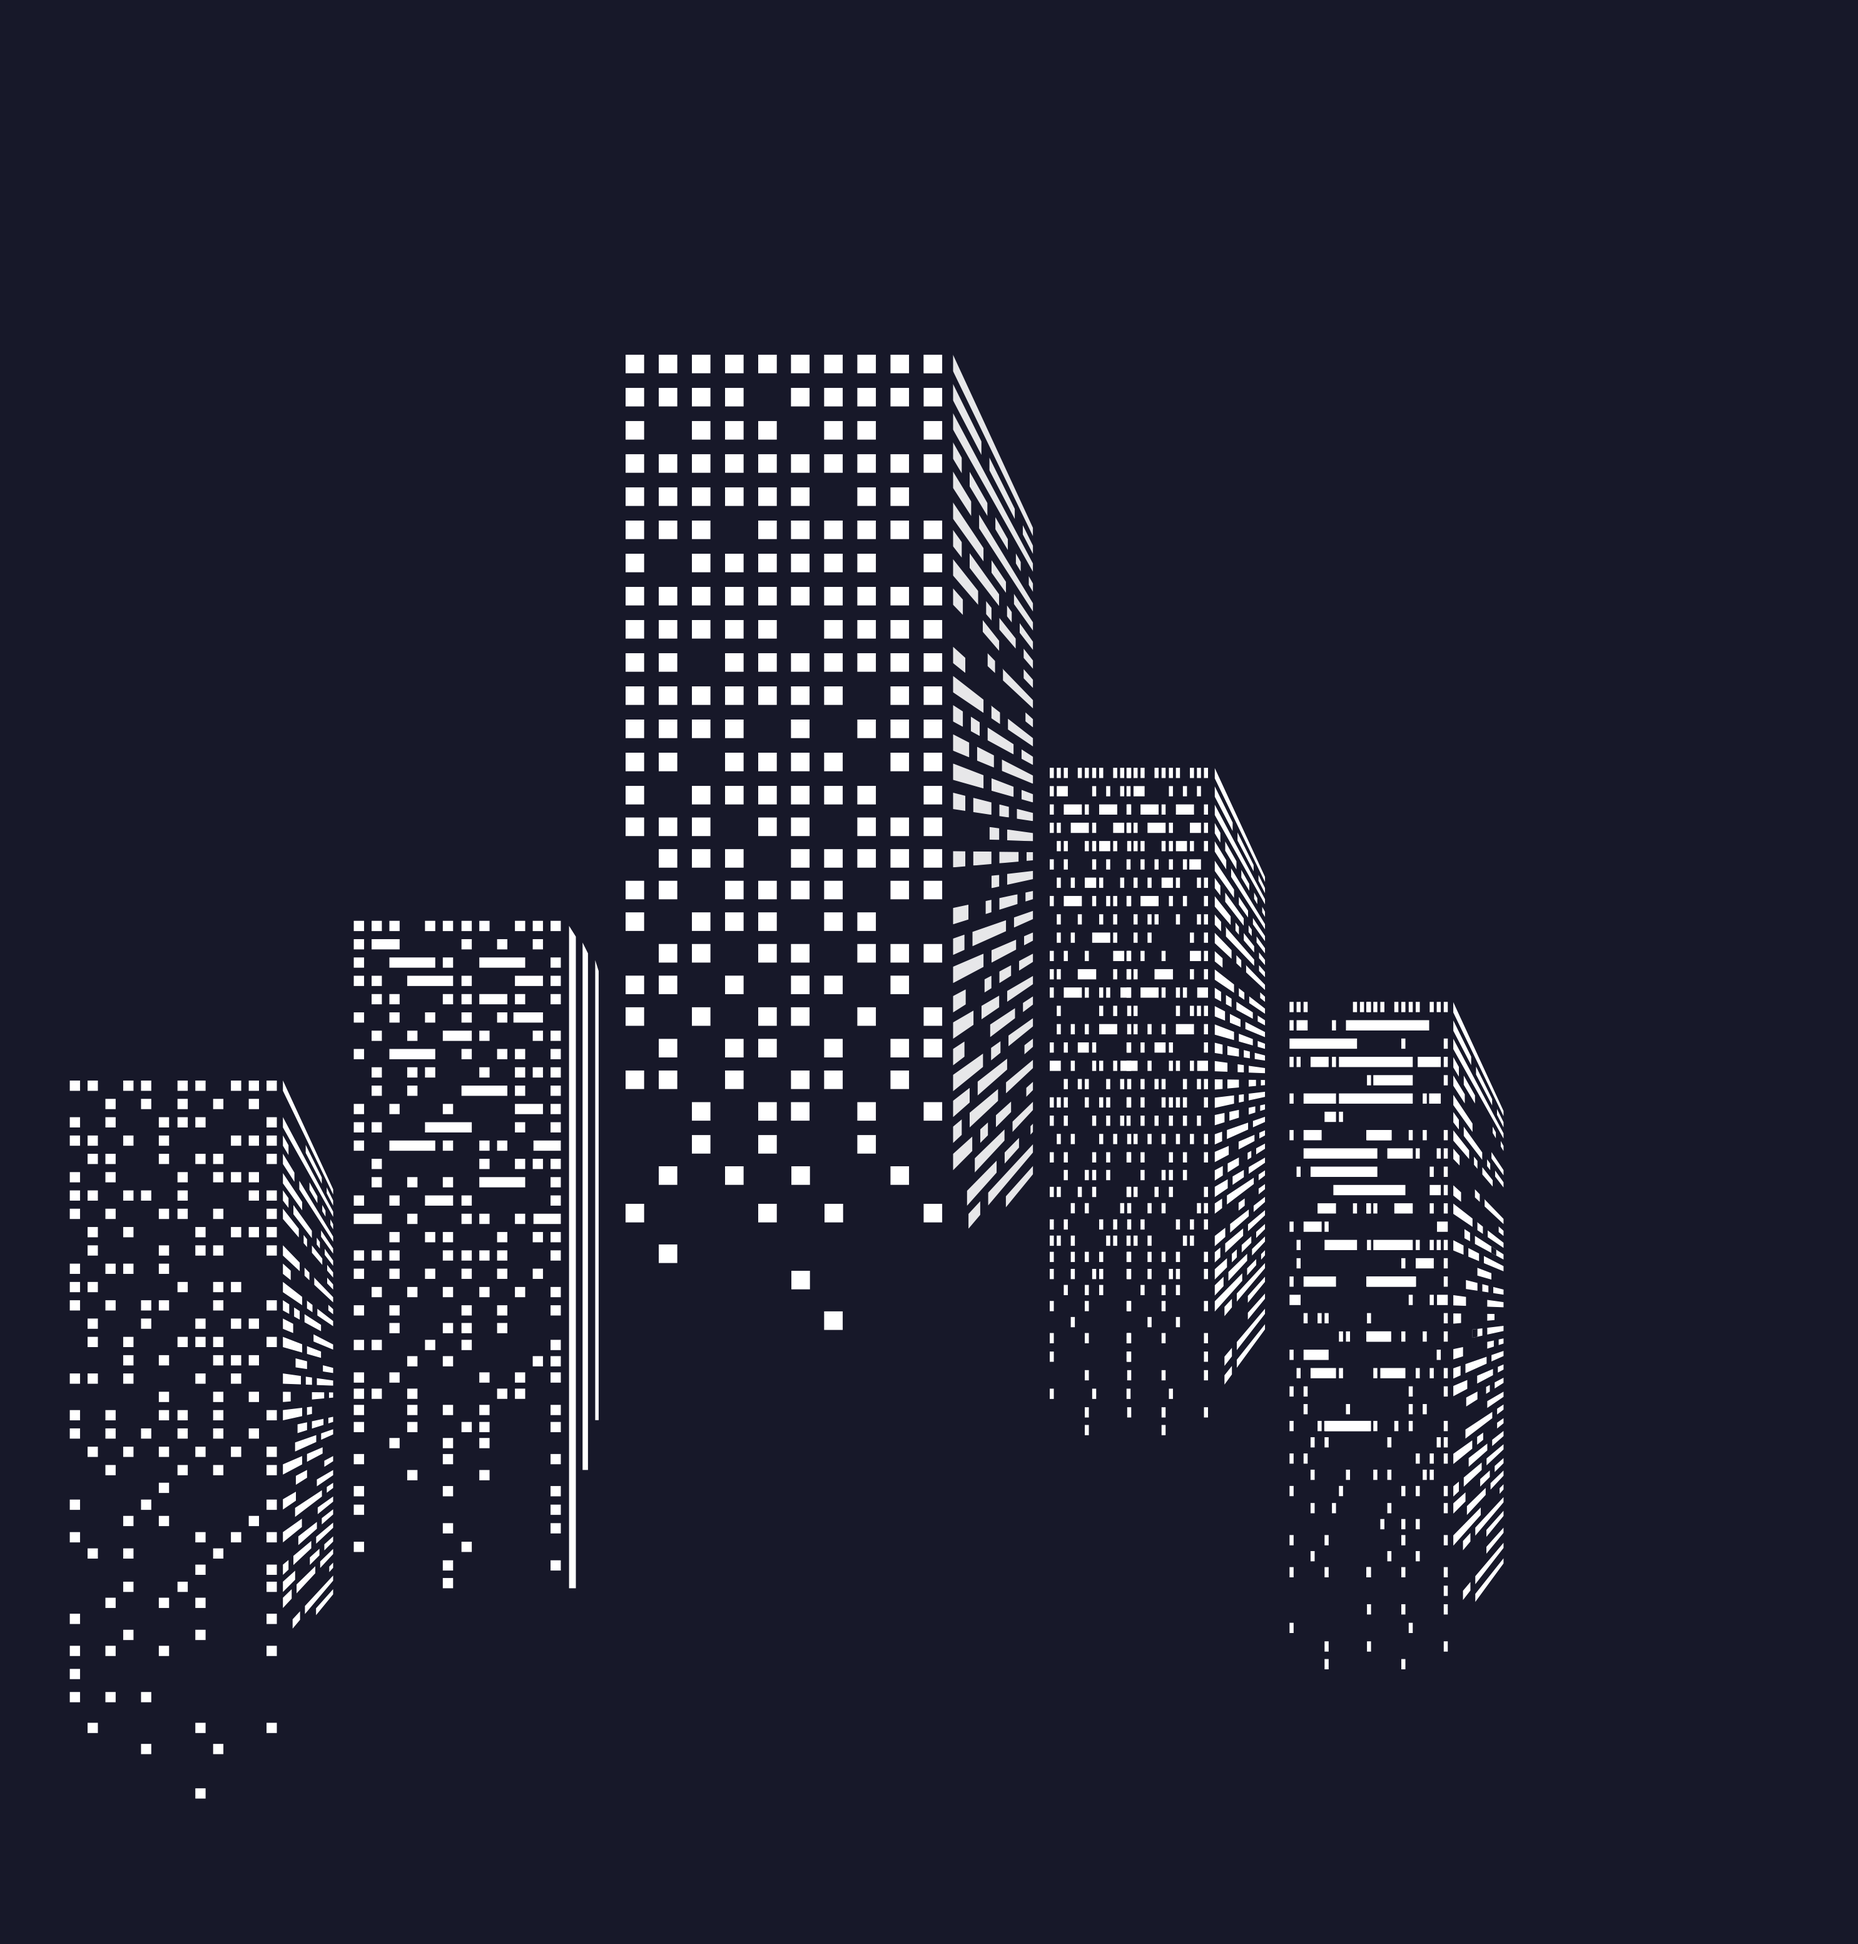
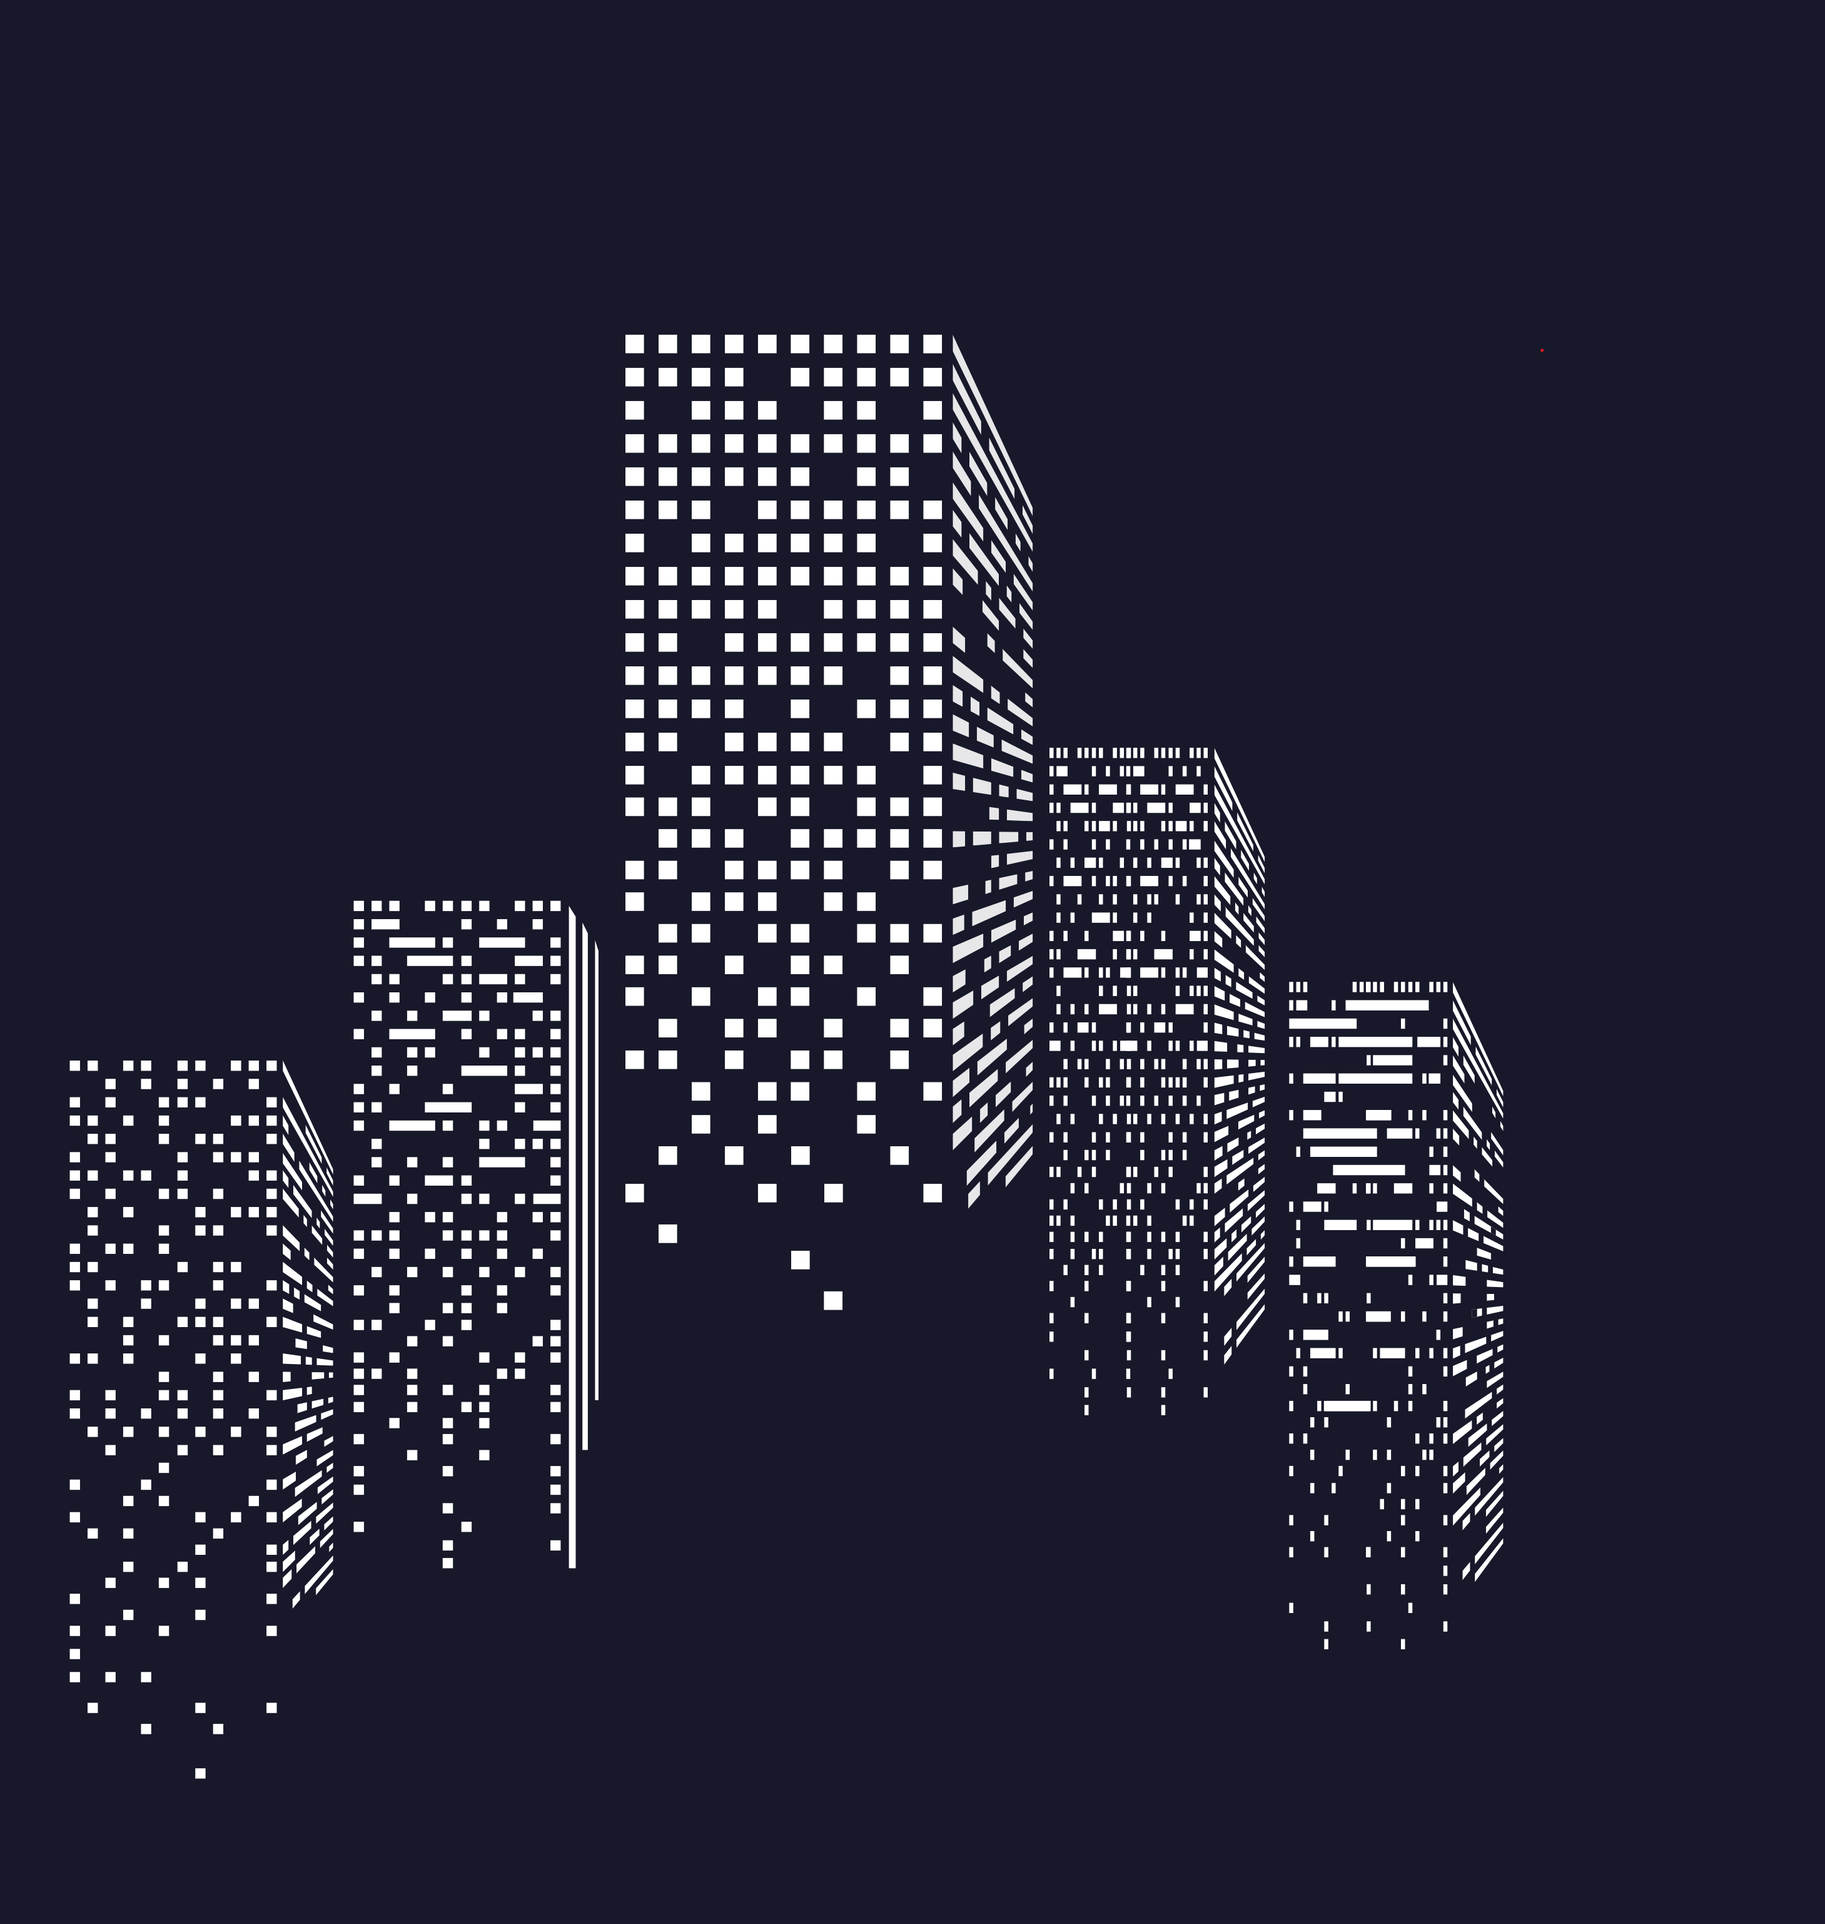
feat: 优化登录界面

Changed region(s): [[0.0312, 0.1561, 0.842, 0.8429], [0.4366, 0.6556, 0.4678, 0.6868], [0.0312, 0.8429, 0.0624, 0.8741]]

diff --git a/src/views/account/Login.vue b/src/views/account/Login.vue
@@ -1,7 +1,7 @@
 <template>
 	<div class="login-container">
 		<div class="login-box">
-			<img src="../../assets/buildings.png" alt="logo" class="buildings">
+			<img src="../../assets/buildings_t.png" alt="logo" class="buildings">
 			<div class="slogen">
                <div class="slogen-title">
                     欢迎登录
@@ -26,11 +26,12 @@ import LoginForm from './LoginForm.vue';
 	height:100%;
 	.buildings{
 		position: absolute;
+		left:5%;
 		bottom: 0;
 		width: 100%;
-		height: 52%;
-		object-fit: cover;
+		height: 43%;
 		z-index: 0;
+		object-fit: cover;
 	}
 	.login-box{
 		z-index: 2;
